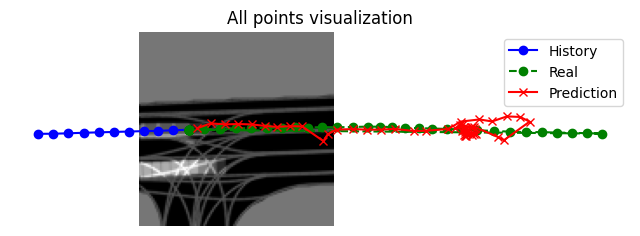
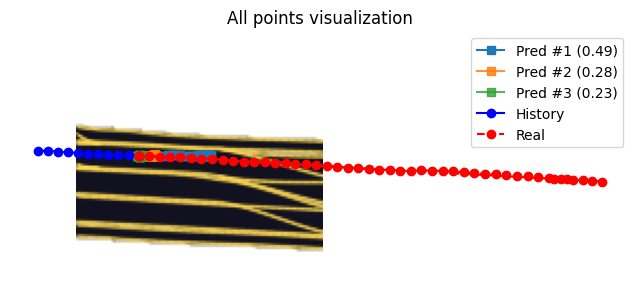
switched to efficientnetb0

diff --git a/prediction/model.py b/prediction/model.py
@@ -1,50 +1,42 @@
 import torch
 import torch.nn as nn
-import torch.nn.functional as F
+import timm
 
 class TrajectoryPredictor(nn.Module):
-    def __init__(self, future_len=50, num_modes=3):
+    def __init__(self, input_channels=25, num_modes=3, future_len=50):
         super().__init__()
         self.num_modes = num_modes
         self.future_len = future_len
 
-        # CNN Backbone
-        self.cnn = nn.Sequential(
-            nn.Conv2d(25, 32, kernel_size=3, padding=1),
-            nn.ReLU(),
-            nn.MaxPool2d(2),
-
-            nn.Conv2d(32, 64, kernel_size=3, padding=1),
-            nn.ReLU(),
-            nn.MaxPool2d(2),
-
-            nn.Conv2d(64, 128, kernel_size=3, padding=1),
-            nn.ReLU(),
-            nn.AdaptiveAvgPool2d((1, 1))  # → [B, 128, 1, 1]
+        self.backbone = timm.create_model(
+            'efficientnet_b0', features_only=True, pretrained=False
         )
 
-        # FC Layers
-        self.fc = nn.Sequential(
-            nn.Linear(128 + 1, 128),  # +1 for is_stationary
+        backbone_out_channels = self.backbone.feature_info[-1]['num_chs']
+        self.input_adapter = nn.Conv2d(input_channels, 3, kernel_size=1)
+
+        self.pool = nn.AdaptiveAvgPool2d((1, 1))
+        self.head = nn.Sequential(
+            nn.Linear(backbone_out_channels + 1, 512),
             nn.ReLU(),
-            nn.Linear(128, num_modes * future_len * 2 + num_modes)  # trajectories + confidences
+            nn.Linear(512, num_modes * future_len * 2 + num_modes)
         )
 
     def forward(self, x, is_stationary):
-        batch_size = x.shape[0]
+        x = self.input_adapter(x)
+        feats = self.backbone(x)[-1]
+        pooled = self.pool(feats).flatten(1)  # [B, C]
 
-        x = self.cnn(x)
-        x = x.view(batch_size, -1)  # → [B, 128]
+        # Добавим is_stationary как дополнительную фичу
+        is_stationary = is_stationary.float().view(-1, 1)  # [B, 1]
+        combined = torch.cat([pooled, is_stationary], dim=1)  # [B, C+1]
 
-        if is_stationary.dim() == 1:
-            is_stationary = is_stationary.unsqueeze(1)  # [B, 1]
+        out = self.head(combined)
+        bs = x.shape[0]
+        traj = out[:, :self.num_modes * self.future_len * 2]
+        traj = traj.view(bs, self.num_modes, self.future_len, 2)
 
-        x = torch.cat([x, is_stationary], dim=1)  # [B, 129]
-        x = self.fc(x)  # [B, num_modes * T * 2 + num_modes]
-
-        # Разделение на траектории и вероятности
-        total = self.num_modes * self.future_len * 2
-        traj = x[:, :total].view(batch_size, self.num_modes, self.future_len, 2)
-        confidences = F.softmax(x[:, total:], dim=1)  # [B, num_modes]
+        confidences = out[:, -self.num_modes:]
+        confidences = torch.softmax(confidences, dim=1)
 
         return traj, confidences

diff --git a/prediction/test.py b/prediction/test.py
@@ -27,36 +27,40 @@ def world_to_image_coords(points, centroid, yaw, pixel_size, raster_size):
     return pixels + image_center
 
 
-def visualize_scene(image, history, target, predictions, confidences, output_path, raster_size):
+def visualize_scene(image, history, target, predictions, confidences, output_path, raster_size, num_trajectories=3):
     fig, ax = plt.subplots(figsize=(8, 8))
-    
-    # Raster map
-    img_sum = image.sum(axis=0)  # (C, H, W) → (H, W)
-    ax.imshow(img_sum, cmap='gray', origin='upper')
+    MAP_CHANNELS = [22, 23, 24]  # можно менять под любые слои
+    img_rgb = image[MAP_CHANNELS, :, :].transpose(1, 2, 0)
 
-    # Historical points (blue)
-    if history is not None:
-        ax.plot(history[:, 0] * 4 + raster_size[0] * 0.25, 
-                history[:, 1] * 4 + raster_size[1] * 0.5, 
-                'o-', color='blue', label='History')
+    ax.imshow(img_rgb, origin='upper')
 
-    # Real trajectory (green)
-    if target is not None:
-        ax.plot(target[:, 0] * 4 + raster_size[0] * 0.25, 
-                target[:, 1] * 4 + raster_size[1] * 0.5, 
-                'o--', color='green', label='Real')
+    def to_pixel_coords(points):
+        return points[:, 0] * 4 + raster_size[0] * 0.25, points[:, 1] * 4 + raster_size[1] * 0.5
 
-    # Predicted trajectory (red)
+    # Предсказания (красные + оттенки)
     if predictions is not None and len(predictions) > 0:
-        best_pred = predictions[0]
-        ax.plot(best_pred[:, 0] * 4 + raster_size[0] * 0.25, 
-                best_pred[:, 1] * 4 + raster_size[1] * 0.5, 
-                'x-', color='red', label='Prediction')
+        num_trajectories = min(num_trajectories, len(predictions))
+        sorted_idx = np.argsort(-confidences)[:num_trajectories]  # по убыванию
+
+        for j, idx in enumerate(sorted_idx):
+            traj = predictions[idx]
+            conf = confidences[idx]
+            x, y = to_pixel_coords(traj)
+            ax.plot(x, y, 's-', alpha=0.6 + 0.4 * (conf / confidences.max()), label=f'Pred #{j+1} ({conf:.2f})')
+
+    # История (синяя)
+    if history is not None:
+        x, y = to_pixel_coords(history)
+        ax.plot(x, y, 'o-', color='blue', label='History')
+
+    # Истинная траектория (зелёная)
+    if target is not None:
+        x, y = to_pixel_coords(target)
+        ax.plot(x, y, 'o--', color='red', label='Real')
 
     ax.legend()
     ax.set_title("All points visualization")
     ax.axis('off')
-
     os.makedirs(os.path.dirname(output_path), exist_ok=True)
     plt.savefig(output_path, bbox_inches='tight')
     plt.close()

diff --git a/prediction/debug_raster_channels.py b/prediction/debug_raster_channels.py
@@ -1,0 +1,64 @@
+import matplotlib.pyplot as plt
+import os
+from l5kit.configs import load_config_data
+from l5kit.rasterization import build_rasterizer
+from l5kit.data import LocalDataManager, ChunkedDataset
+import torch
+from torch.utils.data import DataLoader
+from dataset import TrajectoryDataset
+import yaml
+
+def load_config(path="../config/lyft-config.yaml"):
+    with open(path, "r") as f:
+        return yaml.safe_load(f)
+
+def unwrap_mode_config(cfg, mode):
+    def unwrap_block(d):
+        return {k: v[mode] if isinstance(v, dict) and mode in v else v for k, v in d.items()}
+    
+    cfg["raster_params"] = unwrap_block(cfg["raster_params"])
+    cfg["model_params"] = unwrap_block(cfg["model_params"])
+    cfg["train_data_loader"] = unwrap_block(cfg["train_data_loader"])
+    cfg["test_data_loader"] = unwrap_block(cfg["test_data_loader"])
+    return cfg
+
+
+def main():
+    cfg = load_config_data("../config/lyft-config.yaml")
+    mode = cfg.get("hardware", {}).get("mode", "strong")
+    cfg = unwrap_mode_config(cfg, mode)
+
+    dm = LocalDataManager("../lyft-motion-prediction-autonomous-vehicles")
+    zarr_dataset = ChunkedDataset(dm.require(cfg["train_data_loader"]["key"]))
+    zarr_dataset.open()
+    rasterizer = build_rasterizer(cfg, dm)
+
+    dataset = TrajectoryDataset(cfg, zarr_dataset, rasterizer)
+    loader = DataLoader(dataset, batch_size=1, shuffle=False)
+
+    batch = next(iter(loader))
+    image = batch["image"][0].numpy()  # shape: (25, H, W)
+
+    print(f"Image shape: {image.shape}")
+    print("Displaying individual channels...")
+
+    for i in range(image.shape[0]):
+        # arr = image[i]
+        # print(f"Channel {i} - min: {arr.min():.4f}, max: {arr.max():.4f}, mean: {arr.mean():.4f}")
+
+        # plt.imshow(image[i], cmap='gray', vmin=0, vmax=0.01)
+
+        # normed = (image[i] - image[i].min()) / (image[i].ptp() + 1e-6)
+        # plt.imshow(normed, cmap='gray')
+
+        plt.imshow(image[i], cmap='plasma')
+
+        plt.title(f"Channel {i}")
+        plt.axis('off')
+        plt.tight_layout()
+        save_path = os.path.join("raster_channels_images", f"channel_{i}.png")
+        plt.savefig(save_path)
+        plt.close()
+
+if __name__ == "__main__":
+    main()

diff --git a/prediction/train.py b/prediction/train.py
@@ -1,4 +1,7 @@
 import torch
+torch.set_num_threads(1)
+torch.set_num_interop_threads(1)
+
 from torch.utils.data import DataLoader
 from torch import nn, optim
 
